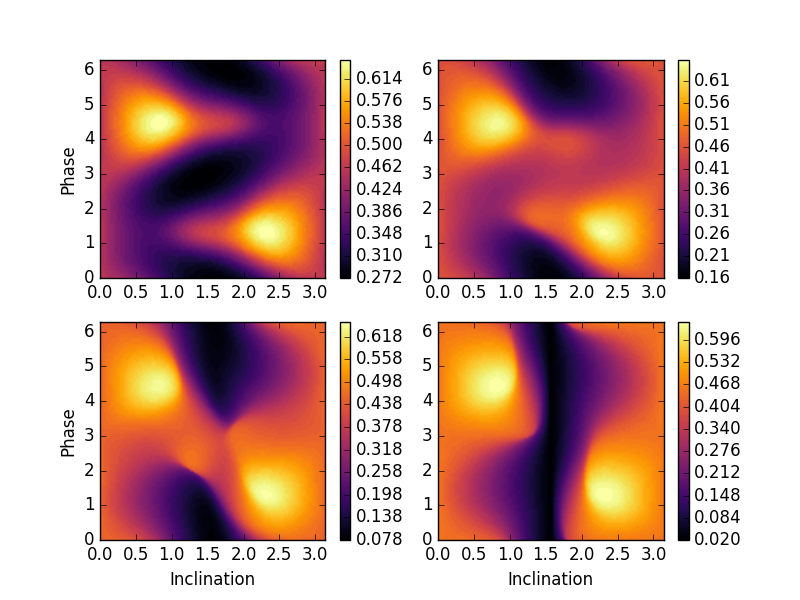
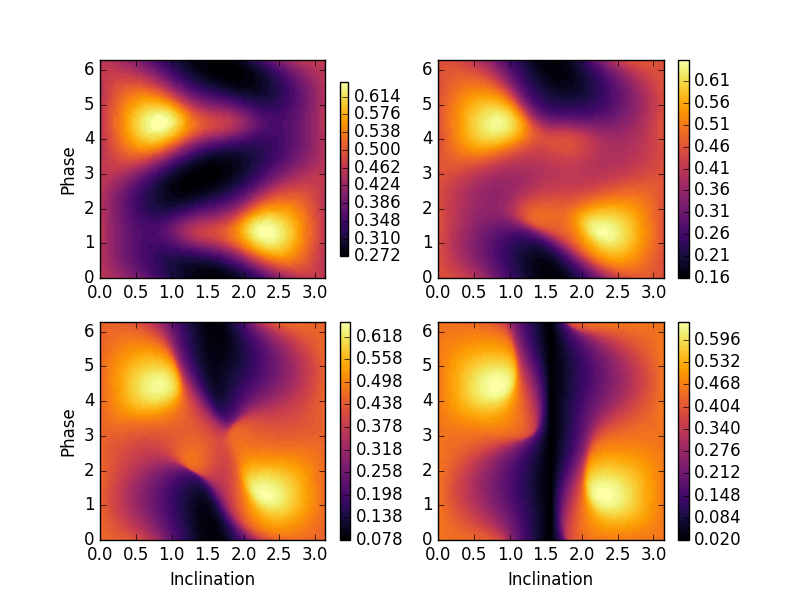
Trying to reduce size of colorbar

Changed region(s): [[0.4062, 0.09, 0.5, 0.48]]

diff --git a/Matching/2D_data/multiPhase.py b/Matching/2D_data/multiPhase.py
@@ -21,7 +21,7 @@ m2=specs[1]
 plt.figure()
 plt.subplot(2,2,1)
 plt.contourf(x,y,z,200,cmap="inferno")
-plt.colorbar()
+plt.colorbar(shrink=0.8)
 plt.ylabel("Phase")
 plt.subplot(2,2,2)
 plt.contourf(x2,y,z2,200,cmap="inferno")
